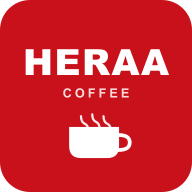
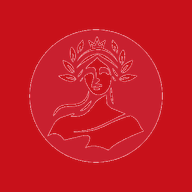
Fix 4 issues found in Captain K's real-device walkthrough
1. PWA icon (icon-192/512.png): replaced generic text+cup placeholder
   with the real Heraa emblem cropped from logo.webp
2. /home: removed the RM balance card + Top Up button entirely, keep
   only the Coffee Credits card (RM Top-up is not a feature we're
   building — Package/Credits is the only purchase flow). Wallet
   tables/data untouched.
3. /profile: menu icons now use the actual delivered nav-*.webp assets
   (nav-profile/nav-coffee/nav-history/nav-voucher/nav-referral)
   instead of generic emoji, matching what's already live elsewhere
   in the app. "Settings" kept as emoji — no delivered icon exists
   for it yet.
4. heraa_auth_get_me (DB function, applied directly to Benny's
   Supabase — see migration 019): was hand-listing fields and
   silently dropping referral_code, member_type, company_id, and
   never returned company_info at all. Data was always correct
   (referral_code has a DB default); this was a pure API-layer bug.
   Verified live: Benny Demo User's referral link now shows
   heraa.com/ref/D20564 instead of blank dashes.

diff --git a/src/app/home/page.tsx b/src/app/home/page.tsx
@@ -2,7 +2,7 @@
 
 import { useEffect, useState, useCallback } from "react";
 import { useRouter } from "next/navigation";
-import { fetchMe, clearSession, Member, Wallet, Transaction, CompanyInfo } from "@/lib/session";
+import { fetchMe, clearSession, Member, Transaction, CompanyInfo } from "@/lib/session";
 import { supabase } from "@/lib/supabase";
 import { track } from "@/lib/track";
 import { useLang } from "@/lib/LanguageContext";
@@ -15,23 +15,10 @@ function getGreeting(t: Record<string, string>) {
   return t.homeGreetEvening;
 }
 
-function getNextAllowanceDate(companyInfo: CompanyInfo | null | undefined): string {
-  if (!companyInfo) return "";
-  const now = new Date();
-  if (companyInfo.allowance_cycle === "monthly") {
-    const resetDay = companyInfo.allowance_reset_day || 1;
-    let next = new Date(now.getFullYear(), now.getMonth(), resetDay);
-    if (next <= now) next = new Date(now.getFullYear(), now.getMonth() + 1, resetDay);
-    return `${next.getMonth() + 1}月${next.getDate()}日`;
-  }
-  return "";
-}
-
 export default function HomePage() {
   const { t, lang, toggleLang } = useLang();
   const router = useRouter();
   const [member, setMember] = useState<Member | null>(null);
-  const [wallet, setWallet] = useState<Wallet | null>(null);
   const [transactions, setTransactions] = useState<Transaction[]>([]);
   const [companyInfo, setCompanyInfo] = useState<CompanyInfo | null>(null);
   const [creditsRemaining, setCreditsRemaining] = useState(0);
@@ -44,7 +31,6 @@ export default function HomePage() {
       return;
     }
     setMember(me.member);
-    setWallet(me.wallet);
     setTransactions(me.transactions.slice(0, 3));
     setCompanyInfo(me.company_info || null);
     setLoading(false);
@@ -80,11 +66,7 @@ export default function HomePage() {
     );
   }
 
-  const balance = Number(wallet?.balance ?? 0);
-  const cups = Math.floor(balance / 6.5);
   const isCorporate = member?.member_type === "corporate";
-  const monthlyAllowance = Number(wallet?.monthly_allowance ?? 0);
-  const pct = monthlyAllowance > 0 ? (balance / monthlyAllowance) * 100 : 0;
 
   // eslint-disable-next-line @typescript-eslint/no-explicit-any
   const tAny = t as any;
@@ -170,64 +152,6 @@ export default function HomePage() {
             </button>
           </div>
         </div>
-
-        {/* RM Wallet Card (unchanged) */}
-        {isCorporate ? (
-          <div
-            className="rounded-2xl p-5 mb-4 shadow-sm"
-            style={{ background: "#FFF5F5", border: "1px solid #FFD0D0" }}
-          >
-            <div className="text-xs font-semibold tracking-wide mb-1" style={{ color: "#C8111A" }}>
-              {lang === "zh" ? "我的余额" : "My Balance"}
-            </div>
-            <div className="flex items-end gap-2 mb-1">
-              <span className="font-bold" style={{ fontSize: 42, color: "#C8111A", lineHeight: 1 }}>
-                RM {balance.toFixed(2)}
-              </span>
-            </div>
-            <div className="text-xs text-gray-400 mb-2">
-              {lang === "zh" ? "约" : "≈"} {cups} {lang === "zh" ? "杯" : "cups"}
-            </div>
-            <div className="h-2 bg-white rounded-full overflow-hidden mb-2">
-              <div
-                className="h-full rounded-full transition-all"
-                style={{ width: `${Math.min(pct, 100)}%`, background: "#C8111A" }}
-              />
-            </div>
-            <div className="flex justify-between text-xs text-gray-400">
-              <span>
-                {lang === "zh" ? "本月津贴" : "Monthly allowance"} RM{monthlyAllowance.toFixed(0)}
-              </span>
-              <span>
-                {lang === "zh" ? "下次发放" : "Next"}: {getNextAllowanceDate(companyInfo)}
-              </span>
-            </div>
-          </div>
-        ) : (
-          <div
-            className="rounded-2xl p-5 mb-4 shadow-sm"
-            style={{ background: "#FFF5F5", border: "1px solid #FFD0D0" }}
-          >
-            <div className="text-xs font-semibold tracking-wide mb-1" style={{ color: "#C8111A" }}>
-              {lang === "zh" ? "我的余额" : "My Balance"}
-            </div>
-            <div className="flex items-end gap-2 mb-1">
-              <span className="font-bold" style={{ fontSize: 42, color: "#C8111A", lineHeight: 1 }}>
-                RM {balance.toFixed(2)}
-              </span>
-            </div>
-            <div className="text-xs text-gray-400 mb-3">
-              {lang === "zh" ? "约" : "≈"} {cups} {lang === "zh" ? "杯" : "cups"}
-            </div>
-            <button
-              onClick={() => router.push("/packages")}
-              className="w-full text-center py-2.5 rounded-xl text-sm font-bold text-white"
-              style={{ background: "#C8111A" }}
-            >
-              💳 {lang === "zh" ? "立即充值" : "Top Up Now"}
-            </button>
-          </div>
-        )}
 
         {/* Active Package */}
         <button

diff --git a/src/app/profile/page.tsx b/src/app/profile/page.tsx
@@ -44,11 +44,11 @@ export default function ProfilePage() {
   const isCorporate = member?.member_type === "corporate";
 
   const menuItems = [
-    { icon: "👤", label: lang === "zh" ? "我的资料" : "My Info", onClick: () => setShowInfo((s) => !s) },
-    { icon: "📦", label: lang === "zh" ? "我的配套" : "My Packages", onClick: () => router.push("/packages") },
-    { icon: "📋", label: t.historyTitle, onClick: () => router.push("/history") },
-    { icon: "🎫", label: lang === "zh" ? "我的优惠券" : "My Vouchers", onClick: () => router.push("/voucher") },
-    { icon: "👫", label: t.referralTitle, onClick: () => router.push("/referral") },
+    { iconSrc: "/assets/icons/nav-profile.webp", label: lang === "zh" ? "我的资料" : "My Info", onClick: () => setShowInfo((s) => !s) },
+    { iconSrc: "/assets/icons/nav-coffee.webp", label: lang === "zh" ? "我的配套" : "My Packages", onClick: () => router.push("/packages") },
+    { iconSrc: "/assets/icons/nav-history.webp", label: t.historyTitle, onClick: () => router.push("/history") },
+    { iconSrc: "/assets/icons/nav-voucher.webp", label: lang === "zh" ? "我的优惠券" : "My Vouchers", onClick: () => router.push("/voucher") },
+    { iconSrc: "/assets/icons/nav-referral.webp", label: t.referralTitle, onClick: () => router.push("/referral") },
     { icon: "⚙", label: lang === "zh" ? "设置" : "Settings", onClick: toggleLang, trailing: lang === "zh" ? "中文" : "English" },
   ];
 
@@ -112,7 +112,14 @@ export default function ProfilePage() {
               onClick={item.onClick}
               className={`w-full flex items-center gap-3 px-4 py-4 text-left hover:bg-gray-50 ${i < menuItems.length - 1 ? "border-b border-gray-50" : ""}`}
             >
-              <span className="text-xl">{item.icon}</span>
+              {item.iconSrc ? (
+                <span className="w-6 h-6 flex items-center justify-center shrink-0">
+                  {/* eslint-disable-next-line @next/next/no-img-element */}
+                  <img src={item.iconSrc} alt="" style={{ width: 22, height: 22, objectFit: "contain" }} />
+                </span>
+              ) : (
+                <span className="text-xl w-6 flex items-center justify-center shrink-0">{item.icon}</span>
+              )}
               <span className="text-sm font-medium text-gray-700">{item.label}</span>
               {item.trailing ? (
                 <span className="ml-auto text-xs text-gray-400">{item.trailing}</span>
